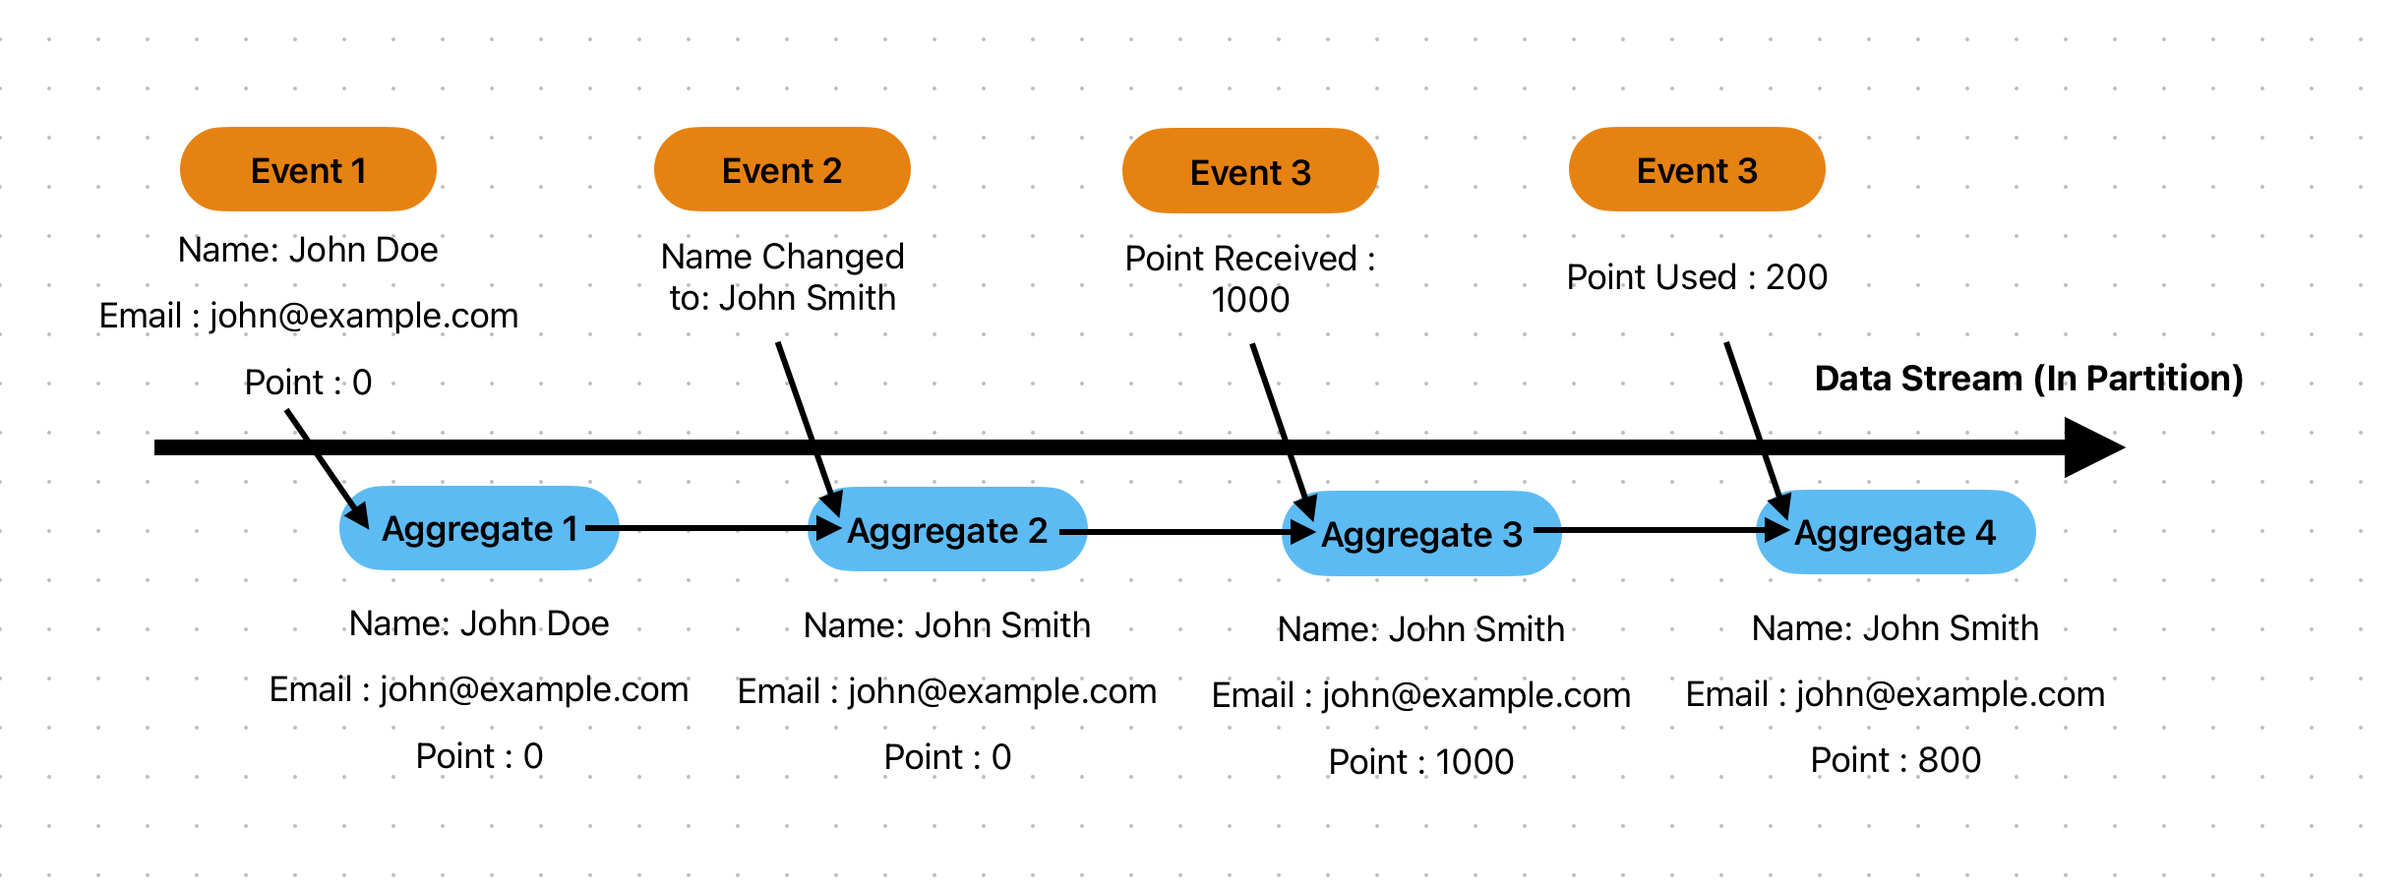
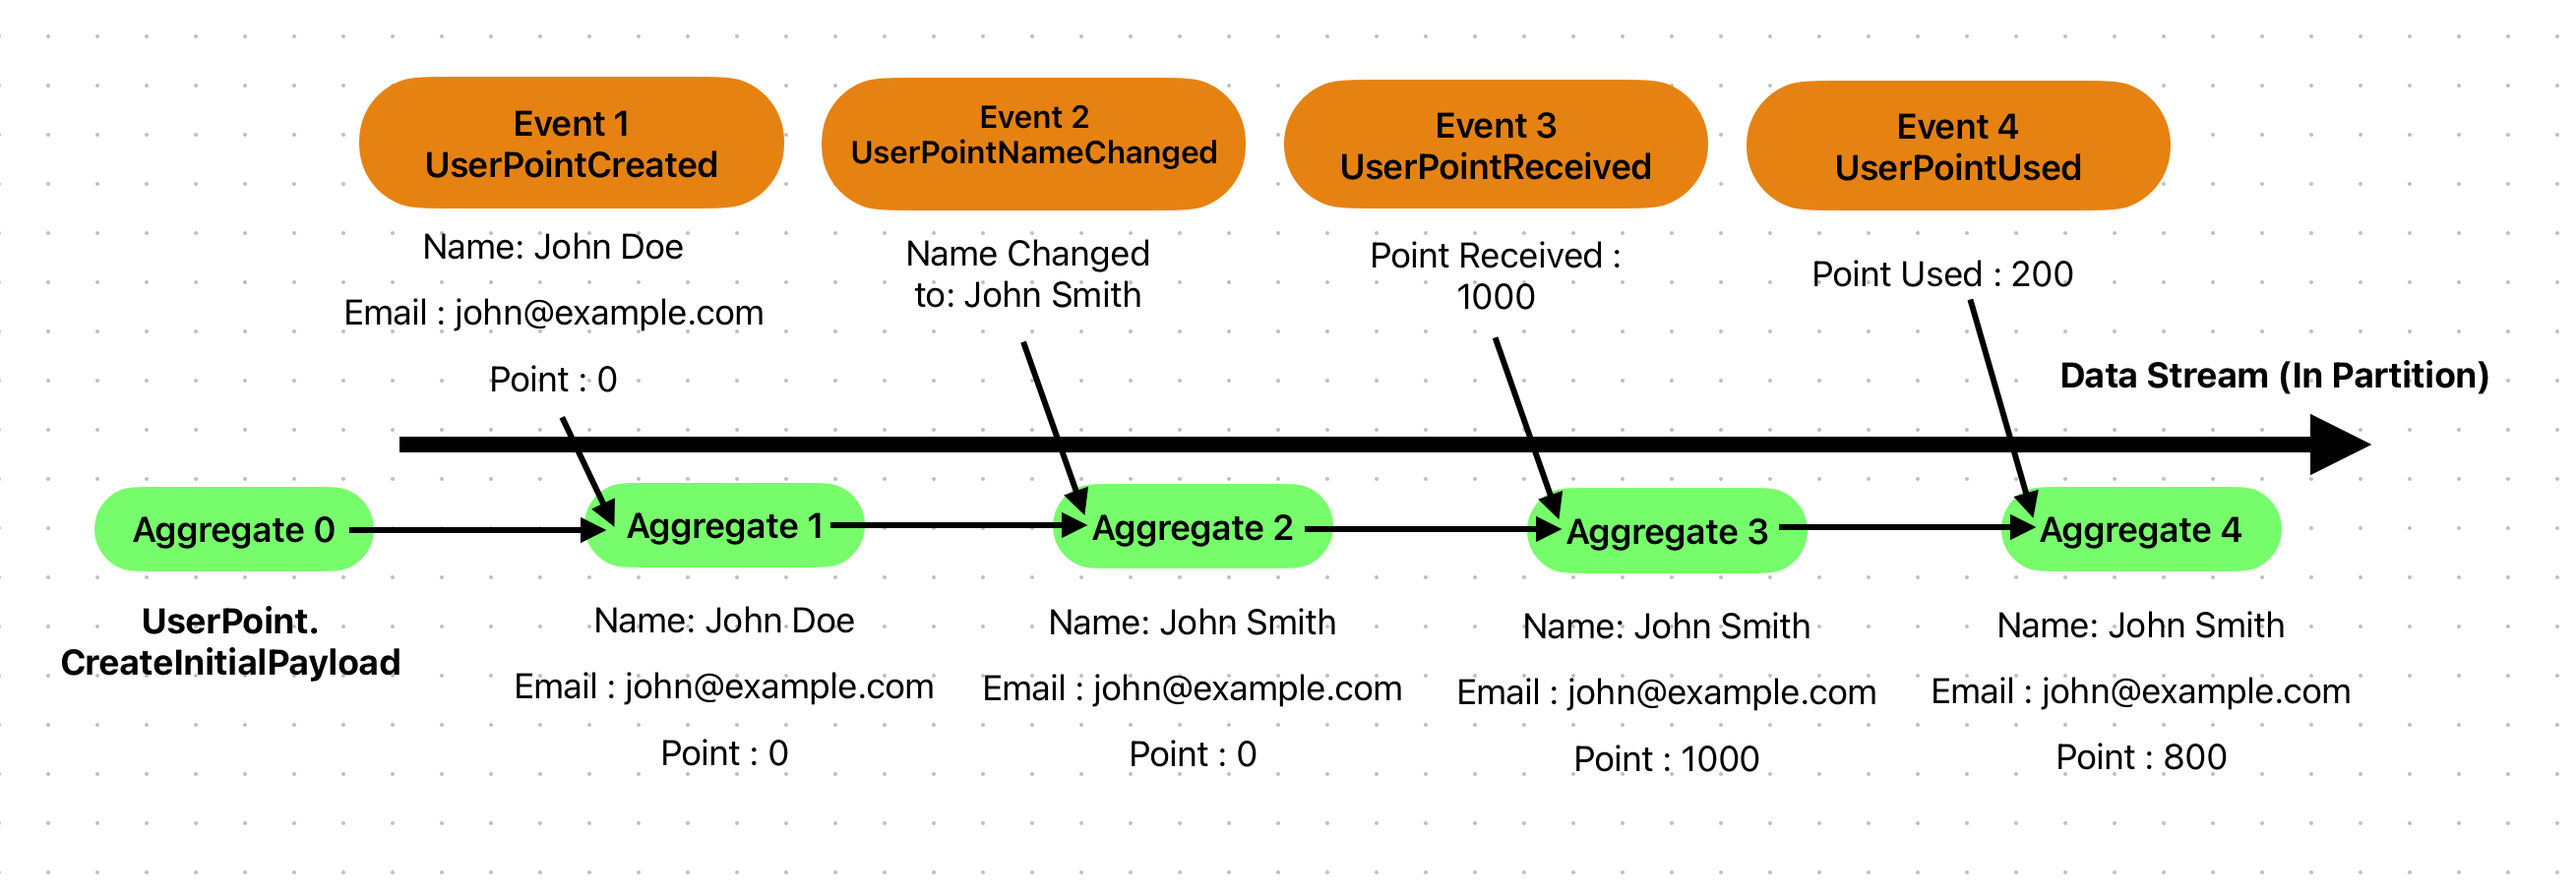
Editing Tutorial and sample project

diff --git a/Tutorials/2.SekibanEventSourcingBasics/SekibanEventSourcingBasics.Domain/Aggregates/UserPoints/UserPoint.cs b/Tutorials/2.SekibanEventSourcingBasics/SekibanEventSourcingBasics.Domain/Aggregates/UserPoints/UserPoint.cs
@@ -6,34 +6,33 @@ using System.Threading.Tasks;
 using Sekiban.Core.Aggregate;
 using Sekiban.Core.Events;
 
-namespace SekibanEventSourcingBasics.Domain.Aggregates.UserPoints
+namespace SekibanEventSourcingBasics.Domain.Aggregates.UserPoints;
+
+public record UserPoint(string Name, string Email, int Point) : IAggregatePayload<UserPoint>
 {
-    public record UserPoint(string Name, string Email, int Point) : IAggregatePayload<UserPoint>
-    {
-        public static UserPoint CreateInitialPayload(UserPoint? _) => new UserPoint(string.Empty,string.Empty,0);
-    }
+    public static UserPoint CreateInitialPayload(UserPoint? _) => new UserPoint(string.Empty,string.Empty,0);
+}
 
-    public record UserPointCreated(string Name, string Email, int Point) : IEventPayload<UserPoint, UserPointCreated>
-    {
-        public static UserPoint OnEvent(UserPoint aggregatePayload, Event<UserPointCreated> ev) =>
-            new(ev.Payload.Name, ev.Payload.Email, ev.Payload.Point);
-    }
+public record UserPointCreated(string Name, string Email, int Point) : IEventPayload<UserPoint, UserPointCreated>
+{
+    public static UserPoint OnEvent(UserPoint aggregatePayload, Event<UserPointCreated> ev) =>
+        new(ev.Payload.Name, ev.Payload.Email, ev.Payload.Point);
+}
 
-    public record UserPointNameChanged(string ChangedName) : IEventPayload<UserPoint, UserPointNameChanged>
-    {
-        public static UserPoint OnEvent(UserPoint aggregatePayload, Event<UserPointNameChanged> ev) =>
-            aggregatePayload with { Name = ev.Payload.ChangedName };
-    }
+public record UserPointNameChanged(string ChangedName) : IEventPayload<UserPoint, UserPointNameChanged>
+{
+    public static UserPoint OnEvent(UserPoint aggregatePayload, Event<UserPointNameChanged> ev) =>
+        aggregatePayload with { Name = ev.Payload.ChangedName };
+}
 
-    public record UserPointReceived(int Point, string Note) : IEventPayload<UserPoint, UserPointReceived>
-    {
-        public static UserPoint OnEvent(UserPoint aggregatePayload, Event<UserPointReceived> ev) =>
-            aggregatePayload with { Point = aggregatePayload.Point + ev.Payload.Point };
-    }
+public record UserPointReceived(int Point, string Note) : IEventPayload<UserPoint, UserPointReceived>
+{
+    public static UserPoint OnEvent(UserPoint aggregatePayload, Event<UserPointReceived> ev) =>
+        aggregatePayload with { Point = aggregatePayload.Point + ev.Payload.Point };
+}
 
-    public record UserPointUsed(int Point, string Note) : IEventPayload<UserPoint, UserPointUsed>
-    {
-        public static UserPoint OnEvent(UserPoint aggregatePayload, Event<UserPointUsed> ev) =>
-            aggregatePayload with { Point = aggregatePayload.Point - ev.Payload.Point };
-    }
+public record UserPointUsed(int Point, string Note) : IEventPayload<UserPoint, UserPointUsed>
+{
+    public static UserPoint OnEvent(UserPoint aggregatePayload, Event<UserPointUsed> ev) =>
+        aggregatePayload with { Point = aggregatePayload.Point - ev.Payload.Point };
 }

diff --git a/Tutorials/2.SekibanEventSourcingBasics/SekibanEventSourcingBasics.Domain/Aggregates/UserPoints/UserPointCommands.cs b/Tutorials/2.SekibanEventSourcingBasics/SekibanEventSourcingBasics.Domain/Aggregates/UserPoints/UserPointCommands.cs
@@ -1,0 +1,47 @@
+using System;
+using System.Collections.Generic;
+using System.ComponentModel.DataAnnotations;
+using System.Linq;
+using System.Text;
+using System.Threading.Tasks;
+using Sekiban.Core.Aggregate;
+using Sekiban.Core.Command;
+using Sekiban.Core.Events;
+
+namespace SekibanEventSourcingBasics.Domain.Aggregates.UserPoints;
+
+
+public record CreateUserPoint(
+    [property: Required]string Name, 
+    [property:Required, EmailAddress]string Email,
+    [property:Range(0,10000)] int Point) : ICommand<UserPoint>
+{
+    // Assign new Aggregate Id by NewGuid()
+    public Guid GetAggregateId() => Guid.NewGuid();
+
+    public class Handler : ICommandHandler<UserPoint, CreateUserPoint>
+    {
+        public IEnumerable<IEventPayloadApplicableTo<UserPoint>> HandleCommand(Func<AggregateState<UserPoint>> getAggregateState, CreateUserPoint command)
+        {
+            yield return new UserPointCreated(command.Name, command.Email, command.Point);
+        }
+    }
+}
+
+public record ChangeUserPointName(
+    [property: Required] Guid UserPointId,
+    [property: Required] string NameToChange) : ICommand<UserPoint>
+{
+    // Aggregate Id should be current aggregate.
+    public Guid GetAggregateId() => UserPointId;
+
+    public class Handler : ICommandHandler<UserPoint, ChangeUserPointName>
+    {
+        public IEnumerable<IEventPayloadApplicableTo<UserPoint>> HandleCommand(Func<AggregateState<UserPoint>> getAggregateState, ChangeUserPointName command)
+        {
+            if (command.NameToChange == getAggregateState().Payload.Name)
+                throw new InvalidOperationException("Already have same name as requested.");
+            yield return new UserPointNameChanged(command.NameToChange);
+        }
+    }
+}

diff --git a/Tutorials/2.SekibanEventSourcingBasics/SekibanEventSourcingBasics.Cosmos.Web/Controllers/WeatherForecastController.cs b/Tutorials/2.SekibanEventSourcingBasics/SekibanEventSourcingBasics.Cosmos.Web/Controllers/WeatherForecastController.cs
@@ -1,33 +1,32 @@
 using Microsoft.AspNetCore.Mvc;
 
-namespace SekibanEventSourcingBasics.Cosmos.Web.Controllers
+namespace SekibanEventSourcingBasics.Cosmos.Web.Controllers;
+
+[ApiController]
+[Route("[controller]")]
+public class WeatherForecastController : ControllerBase
 {
-    [ApiController]
-    [Route("[controller]")]
-    public class WeatherForecastController : ControllerBase
+    private static readonly string[] Summaries = new[]
     {
-        private static readonly string[] Summaries = new[]
-        {
         "Freezing", "Bracing", "Chilly", "Cool", "Mild", "Warm", "Balmy", "Hot", "Sweltering", "Scorching"
     };
 
-        private readonly ILogger<WeatherForecastController> _logger;
+    private readonly ILogger<WeatherForecastController> _logger;
 
-        public WeatherForecastController(ILogger<WeatherForecastController> logger)
-        {
-            _logger = logger;
-        }
+    public WeatherForecastController(ILogger<WeatherForecastController> logger)
+    {
+        _logger = logger;
+    }
 
-        [HttpGet(Name = "GetWeatherForecast")]
-        public IEnumerable<WeatherForecast> Get()
-        {
-            return Enumerable.Range(1, 5).Select(index => new WeatherForecast
+    [HttpGet(Name = "GetWeatherForecast")]
+    public IEnumerable<WeatherForecast> Get()
+    {
+        return Enumerable.Range(1, 5).Select(index => new WeatherForecast
             {
                 Date = DateOnly.FromDateTime(DateTime.Now.AddDays(index)),
                 TemperatureC = Random.Shared.Next(-20, 55),
                 Summary = Summaries[Random.Shared.Next(Summaries.Length)]
             })
             .ToArray();
-        }
     }
 }

diff --git a/Tutorials/2.SekibanEventSourcingBasics/SekibanEventSourcingBasics.Domain/DomainDependency.cs b/Tutorials/2.SekibanEventSourcingBasics/SekibanEventSourcingBasics.Domain/DomainDependency.cs
@@ -5,19 +5,19 @@ using System.Reflection;
 using System.Text;
 using System.Threading.Tasks;
 using Sekiban.Core.Dependency;
+using SekibanEventSourcingBasics.Domain.Aggregates.UserPoints;
 
-namespace SekibanEventSourcingBasics.Domain
+namespace SekibanEventSourcingBasics.Domain;
+
+internal class DomainDependency : DomainDependencyDefinitionBase
 {
-    internal class DomainDependency : DomainDependencyDefinitionBase
+    public override Assembly GetExecutingAssembly()
     {
-        public override Assembly GetExecutingAssembly()
-        {
-            return Assembly.GetExecutingAssembly();
-        }
+        return Assembly.GetExecutingAssembly();
+    }
 
-        public override void Define()
-        {
-            throw new NotImplementedException();
-        }
+    public override void Define()
+    {
+        AddAggregate<UserPoint>();
     }
 }

diff --git a/Tutorials/2.SekibanEventSourcingBasics/SekibanEventSourcingBasics.Cosmos.Web/WeatherForecast.cs b/Tutorials/2.SekibanEventSourcingBasics/SekibanEventSourcingBasics.Cosmos.Web/WeatherForecast.cs
@@ -1,13 +1,12 @@
-namespace SekibanEventSourcingBasics.Cosmos.Web
+namespace SekibanEventSourcingBasics.Cosmos.Web;
+
+public class WeatherForecast
 {
-    public class WeatherForecast
-    {
-        public DateOnly Date { get; set; }
+    public DateOnly Date { get; set; }
 
-        public int TemperatureC { get; set; }
+    public int TemperatureC { get; set; }
 
-        public int TemperatureF => 32 + (int)(TemperatureC / 0.5556);
+    public int TemperatureF => 32 + (int)(TemperatureC / 0.5556);
 
-        public string? Summary { get; set; }
-    }
+    public string? Summary { get; set; }
 }

diff --git a/docs/docfx_project/articles/sekiban-event-sourcing-basics.md b/docs/docfx_project/articles/sekiban-event-sourcing-basics.md
@@ -24,29 +24,34 @@ This is from SekibanEventSourcingBasics Tutorial, located in the repository, `/T
 ```csharp
    public record UserPoint(string Name, string Email, int Point) : IAggregatePayload<UserPoint>
    {
+    // Aggreagte 0
        public static UserPoint CreateInitialPayload(UserPoint? _) => new UserPoint(string.Empty,string.Empty,0);
    }
 
    public record UserPointCreated(string Name, string Email, int Point) : IEventPayload<UserPoint, UserPointCreated>
    {
+    // Aggregate 1 = f(aggregate0, event1)
        public static UserPoint OnEvent(UserPoint aggregatePayload, Event<UserPointCreated> ev) =>
            new(ev.Payload.Name, ev.Payload.Email, ev.Payload.Point);
    }
 
    public record UserPointNameChanged(string ChangedName) : IEventPayload<UserPoint, UserPointNameChanged>
    {
+    // Aggregate 2 = f(aggregate1, event2)
        public static UserPoint OnEvent(UserPoint aggregatePayload, Event<UserPointNameChanged> ev) =>
            aggregatePayload with { Name = ev.Payload.ChangedName };
    }
 
    public record UserPointReceived(int Point, string Note) : IEventPayload<UserPoint, UserPointReceived>
    {
+    // Aggregate 3 = f(aggregate2, event3)
        public static UserPoint OnEvent(UserPoint aggregatePayload, Event<UserPointReceived> ev) =>
            aggregatePayload with { Point = aggregatePayload.Point + ev.Payload.Point };
    }
 
    public record UserPointUsed(int Point, string Note) : IEventPayload<UserPoint, UserPointUsed>
    {
+    // Aggregate 4 = f(aggregate3, event4)
        public static UserPoint OnEvent(UserPoint aggregatePayload, Event<UserPointUsed> ev) =>
            aggregatePayload with { Point = aggregatePayload.Point - ev.Payload.Point };
    }
@@ -58,8 +63,95 @@ This case aggregate (stream) is named `UserPoint`. In this `UserPoint` stream ma
 
 You can see from the code above, this code represents AggregatePayload and EventPayload. There are common information for the Aggregate and Events, which is AggregateId, TimeStamp, SortKey, PartitionKey etc is in the Aggregates and Events, and developer will write code for the contents, in the Payload.
 
+One important restriction is, event can never throw exception. It will be used whole time when system is runnning, as the way to build aggregate state. If wrong event are sent wrong time, you can just not change aggregate and return.
+
 ### "Functional" way to write event sourcing.
 The code above is live code that can run in the Sekiban, it might be slightly different with what you see in other event sourcing library or sample code. Sekiban took event sourcing as "Functional" way and try to use c# feature of the functional side. IAggregatePayload Interface method "CreateInitialPayload" and IEventPayload "OnEvent" method are both static and pure function, which is not changing instance, rather create new instance and returns as a new object. This makes it more compatible for parallel executions and easier to see code base. 
 
 
 ## Only way to Produce Event - Command.
+
+List of Events and states created with Events are most fundamental part of Sekiban. But also `Commands` has big part of the event sourcing. In Sekiban and in general Event Sourcing, `Command` is the one creates events. 
+
+`Command` should include following features.
+- Determine which stream Events are written (AggregateId).
+- Data Validation
+- Consistency Check.
+- Generate Events.
+
+And `Command` has two main part of it.
+1. Command Data (Usually called `Command`) - Order contents, it usually send from user. Some cases, system can send command for a aggregate (stream) as well.
+    Commands will need to detarmine which stream Events are written by returning Guid Value on `GetAggregateId();`
+    In Sekiban, validation attribute takes care of most part of validations that you can define its restrictions.
+
+2. Command Handler - Function or Program that take care the Order (Command.) Handler takes care of Consystency Check and making event(s) to save.
+
+This is sample Command for CreateUserPoint and ChangeUserPointName
+
+```csharp
+public record CreateUserPoint(
+    [property: Required]string Name, 
+    [property:Required, EmailAddress]string Email,
+    [property:Range(0,10000)] int Point) : ICommand<UserPoint>
+{
+    public Guid GetAggregateId() => Guid.NewGuid();
+
+    public class Handler : ICommandHandler<UserPoint, CreateUserPoint>
+    {
+        public IEnumerable<IEventPayloadApplicableTo<UserPoint>> HandleCommand(Func<AggregateState<UserPoint>> getAggregateState, CreateUserPoint command)
+        {
+
+            // can check if email is already registered in the system
+
+            yield return new UserPointCreated(command.Name, command.Email, command.Point);
+        }
+    }
+}
+```
+
+``` csharp
+public record ChangeUserPointName(
+    [property: Required] Guid UserPointId,
+    [property: Required] string NameToChange) : ICommand<UserPoint>
+{
+    // Aggregate Id should be current aggregate.
+    public Guid GetAggregateId() => UserPointId;
+
+    public class Handler : ICommandHandler<UserPoint, ChangeUserPointName>
+    {
+        public IEnumerable<IEventPayloadApplicableTo<UserPoint>> HandleCommand(Func<AggregateState<UserPoint>> getAggregateState, ChangeUserPointName command)
+        {
+            // consistency check.
+            if (command.NameToChange == getAggregateState().Payload.Name)
+                throw new InvalidOperationException("Already have same name as requested.");
+            
+            yield return new UserPointNameChanged(command.NameToChange);
+        }
+    }
+}
+```
+
+
+![Event Sourcing Command concept](../images/sekiban-event-sourcing-basics/image2.png)
+
+The code above has two main classes.
+- CreateUserPoint,CreateUserPoint : Command Data Class.
+
+    In Sekiban, comand has responsibility to decide which `Aggregate Id` the stream should save. Stream will be partition with `AggregateId` and `Aggregate Type`. (Actually it has one more key `RootPartitionKey` but it will be explain in other documents.) Since command already has which `Aggregate Type`, command need to determine `Aggregate Id`. 
+    This can be done with returns Guid value on `GetAggregateId()`. If you want to create new stream, you can return `Guid.NewGuid()` to create unique Guid. That is why CreateUserPoint Command returns `GetAggregateId() => Guid.NewGuid().`. On the other hand, to execute CreateUserPoint command, it should refer Aggregate Id that already exists, so CreateUserPoint has property `UserPointId` which will be used in the `GetAggregateId()`.
+
+    Validation is also important role of the Command. In this sample, commands has `[property : Required]` or `[property : EmailAddress]`. Those validation attributes will be execute before command handler, it helps to not adding wrong data into the system. Any other complecated validation can do within Handler methods as well.
+
+- CreateUserPoint.Handler, CreateUserPoint.Handler : Command Handler Class.
+
+    Command Handler can check if command can run this command. It is no problem command throws exception when wrong command is sent. (Event is something already happend but command is something we should try in future, so it could have failed in some situations.) Command handler will allow to have DI from dotnet, and Sekiban Command Handler method can be sync/async you can choose which one for each command. Then you can sometime run query etc to detarmine if you can allow to run commands.
+
+    When consistency test has passed, you can generate event. Event is something system already allowed, so it will be handled with the fact. 
+
+### Event and Command Naming.
+
+Because of what we dicsussed in this document, naming of the event, command will be following.
+
+- **Event** : Past Sentense like `UserCreated` or `NameChanged`
+- **Command** : Order term like `CreateUser` or `ChangeName`
+
